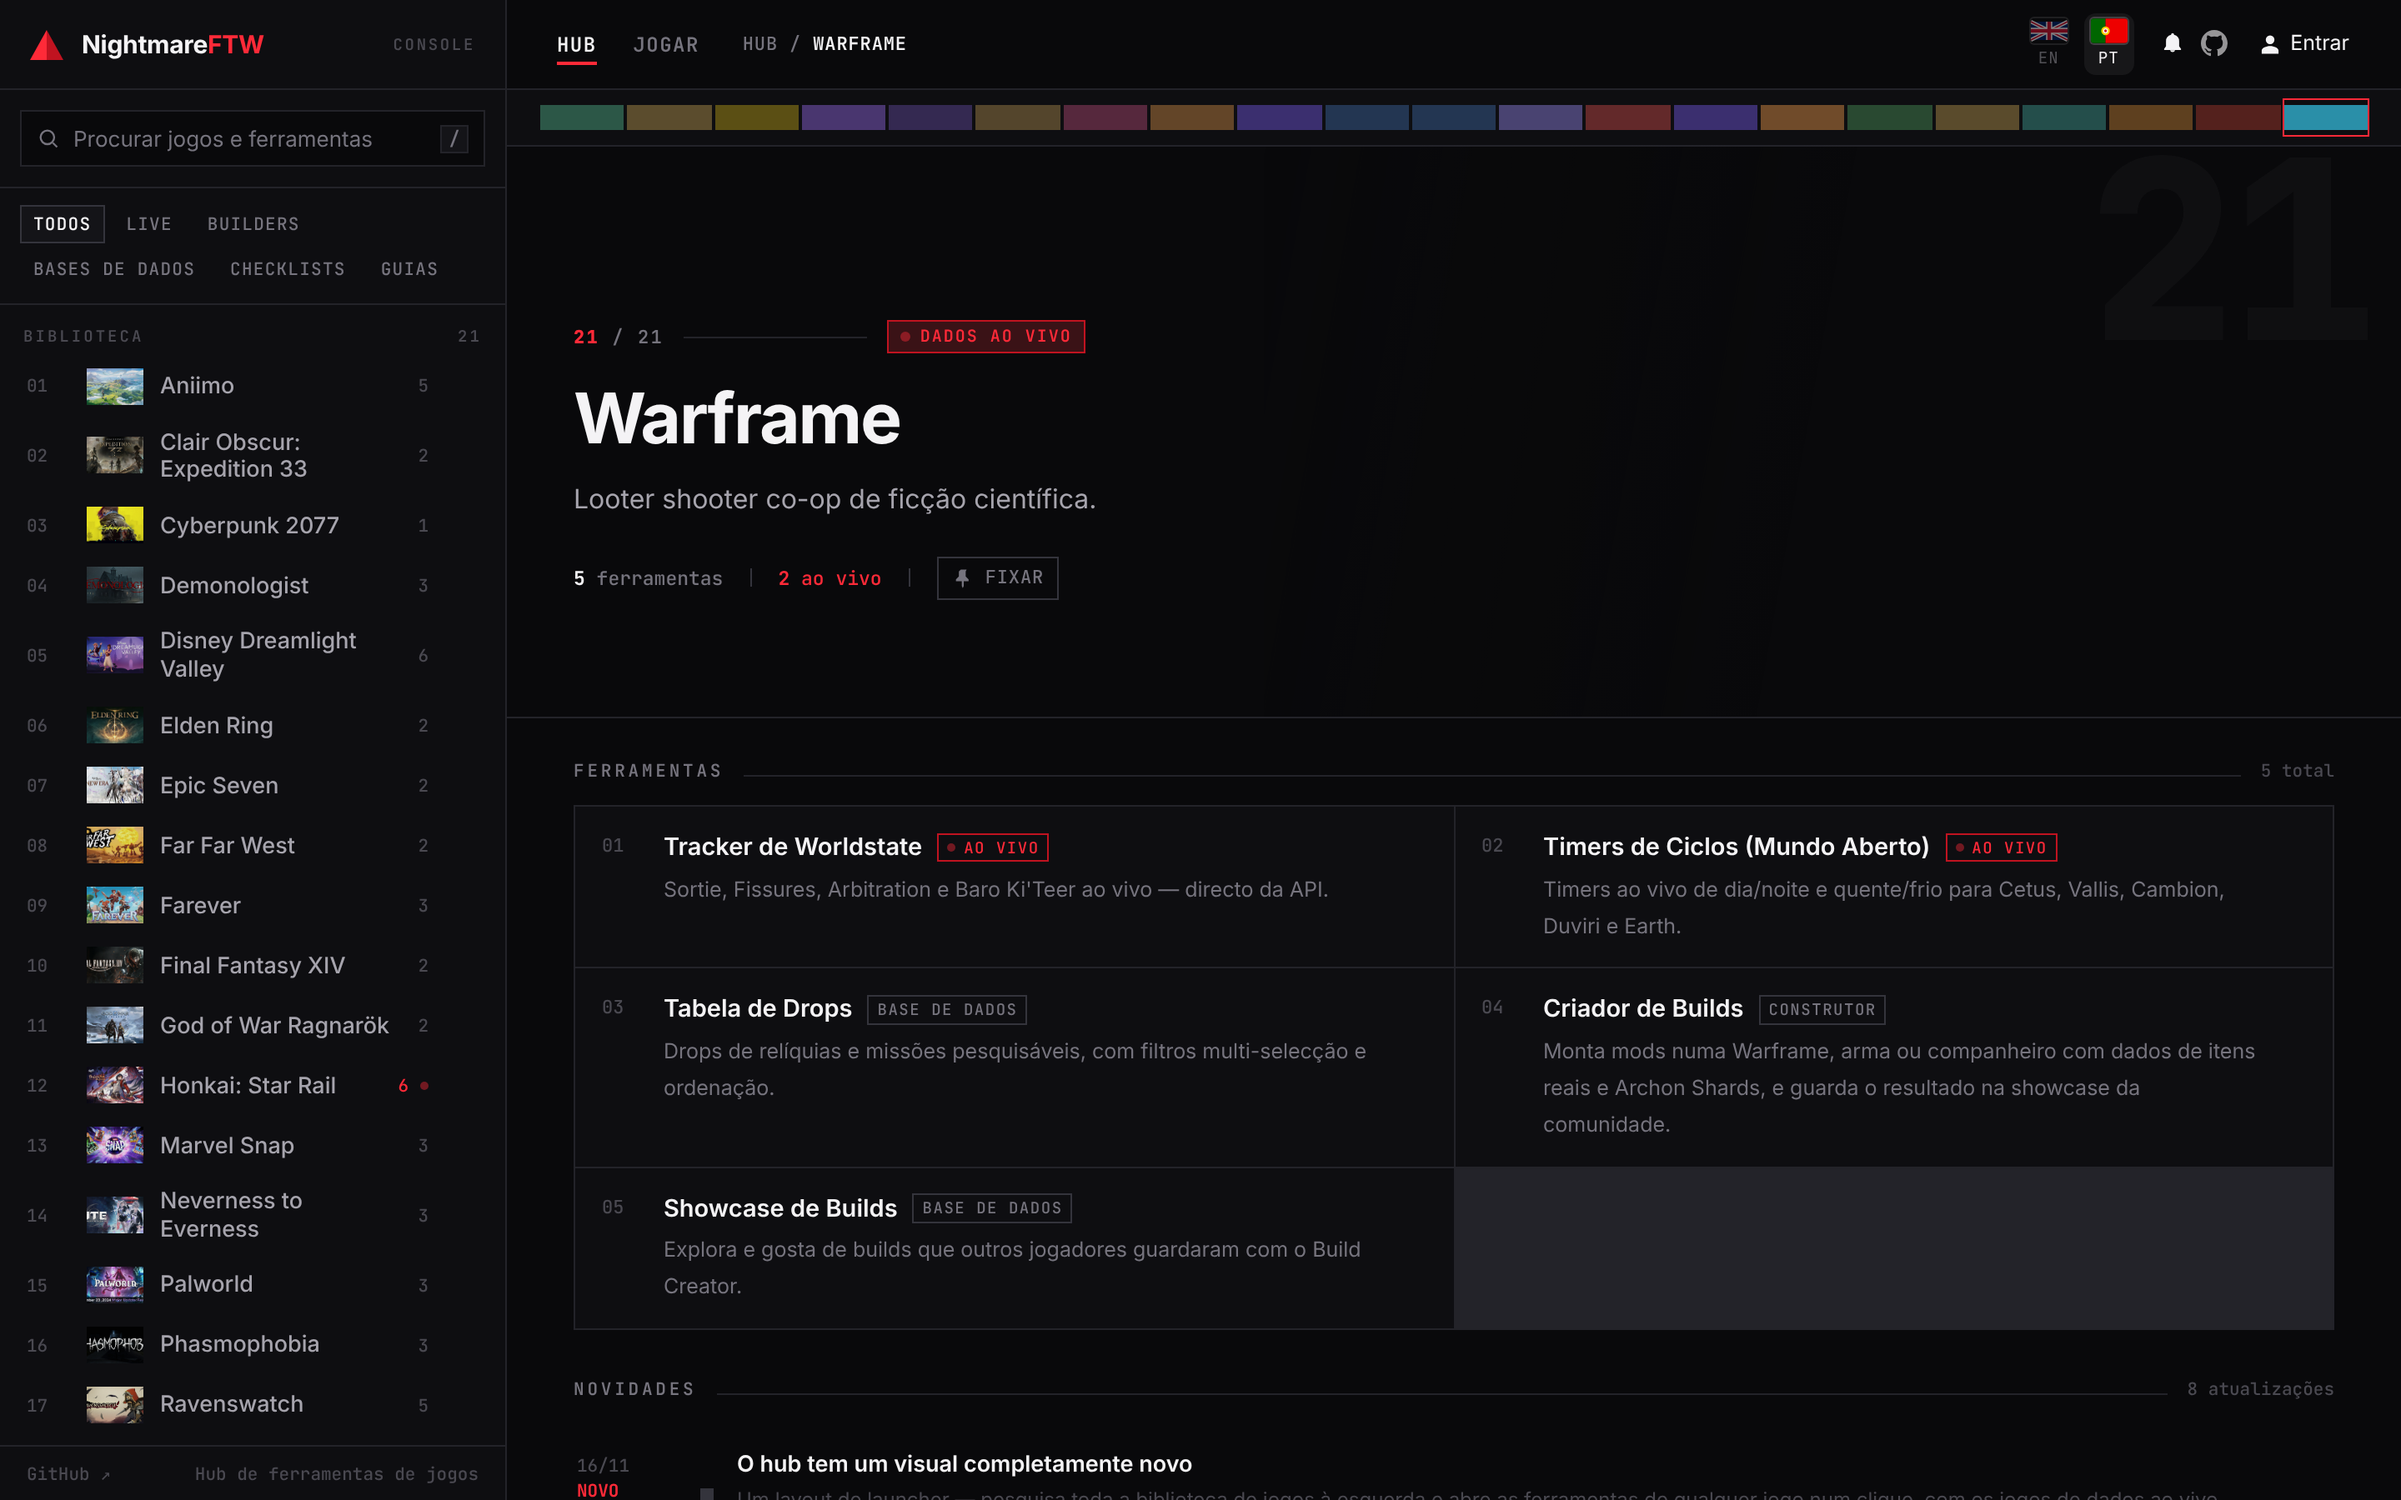
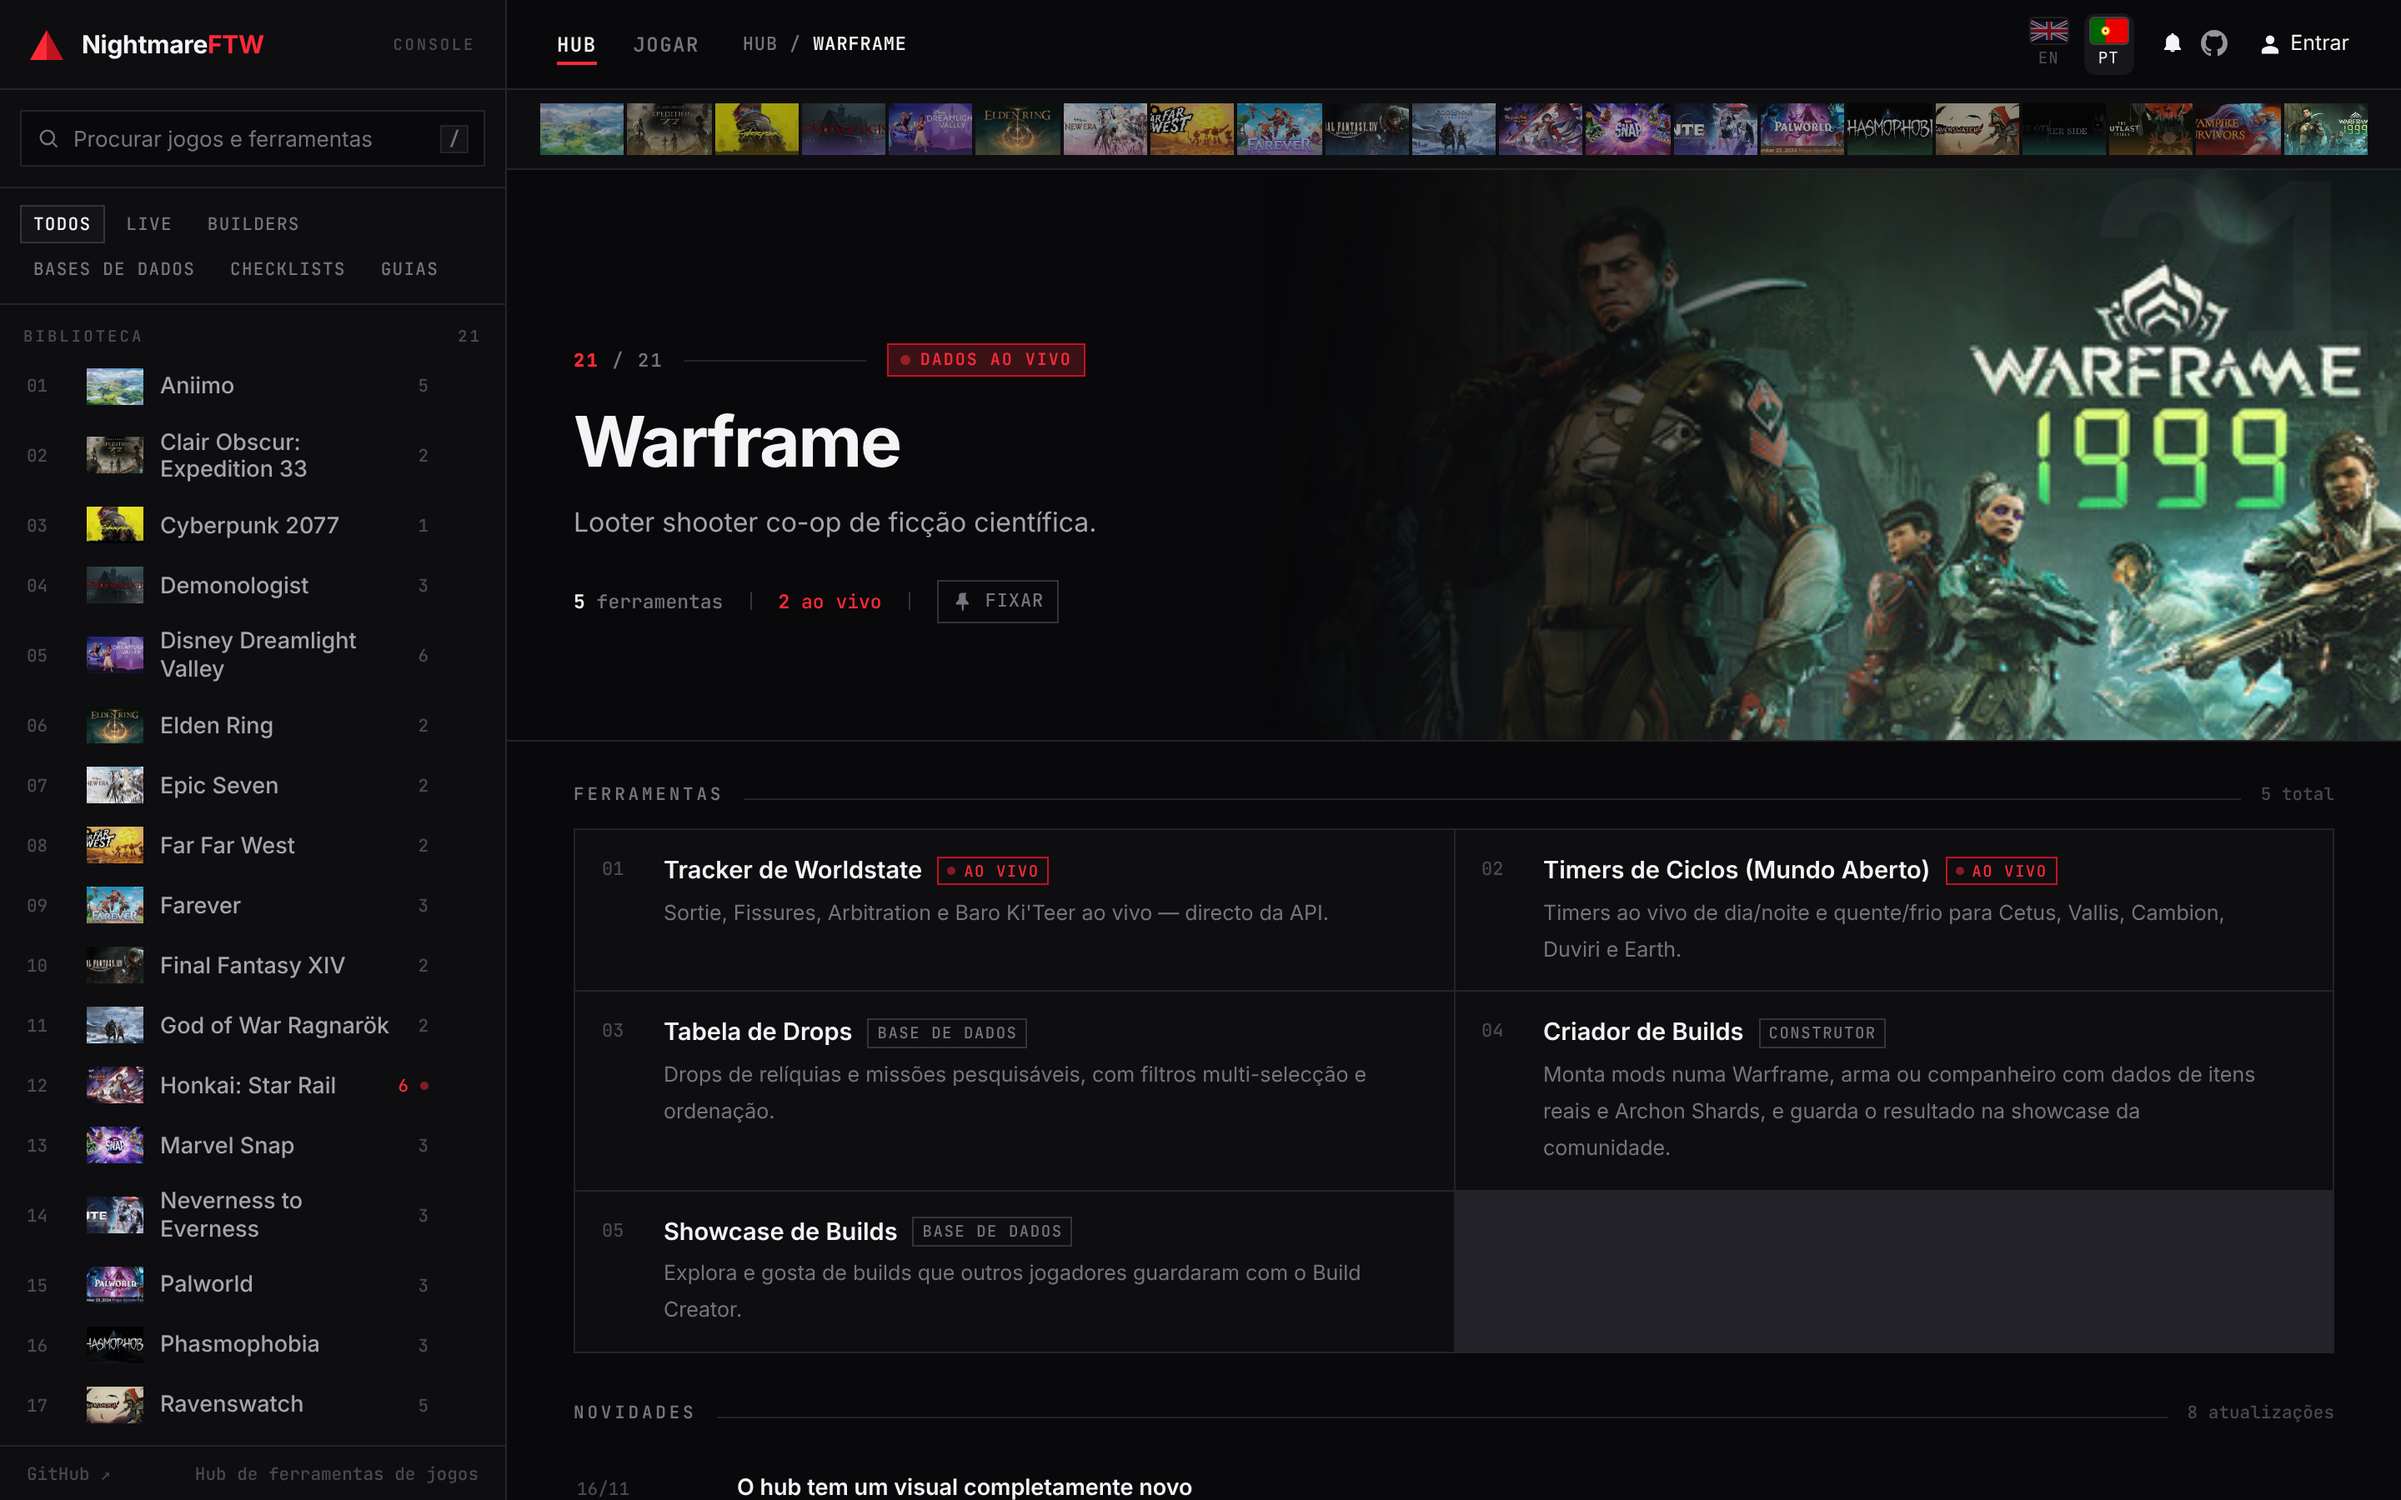
Fix hub spectrum + hero key art (broken url() quoting)
The spectrum segments and the hero backdrop set background-image from an
inline style, but the URL was wrapped in double quotes (via JSON.stringify)
inside a double-quoted style attribute, so the attribute was truncated at
url(" and no image ever loaded — the strip showed flat colour blocks and the
hero was just dark. Quote the URL with single quotes instead.

Also make the spectrum taller (48px) and a touch brighter so each game's key
art actually reads as a decal, with a subtle game-colour wash at the bottom.
Refresh the README hub screenshots.

Claude-Session: https://claude.ai/code/session_01CGZQKqSGkxkYqymybddwEb

diff --git a/assets/css/home.css b/assets/css/home.css
@@ -11,7 +11,7 @@
   --line: #232329; --line-2: #34343c;
   --c-text: #f4f3f5; --text-2: #a6a4ad; --text-3: #76747e; --text-4: #4a4951;
   --c-accent: #ff2a38; --accent-deep: #c01320; --accent-dim: #3a1216;
-  --rail: 304px; --topbar: 54px; --spec: 34px;
+  --rail: 304px; --topbar: 54px; --spec: 48px;
 }
 html, body { height: 100%; }
 body {
@@ -115,11 +115,13 @@ body::before {
 .topbar .top-nav .auth-btn { font-size: .78rem; }
 
 /* spectrum: the whole library as one strip you can jump around */
-.spectrum { flex: none; height: var(--spec); display: flex; align-items: stretch; gap: 2px; padding: 9px 20px; border-bottom: 1px solid var(--line); background: var(--panel); }
-.spectrum button { flex: 1; min-width: 0; position: relative; background-color: var(--seg, var(--line-2)); background-size: cover; background-position: center; opacity: .42; filter: saturate(.9); transition: opacity .12s, filter .12s; }
-.spectrum button:hover { opacity: .85; filter: none; }
+.spectrum { flex: none; height: var(--spec); display: flex; align-items: stretch; gap: 2px; padding: 8px 20px; border-bottom: 1px solid var(--line); background: var(--panel); }
+.spectrum button { flex: 1; min-width: 0; position: relative; overflow: hidden; background-color: var(--seg, var(--line-2)); background-size: cover; background-position: center 32%; opacity: .62; filter: saturate(.95); transition: opacity .12s, filter .12s; }
+.spectrum button:hover { opacity: .9; filter: none; }
 .spectrum button[aria-current="true"] { opacity: 1; filter: none; }
-.spectrum button::before { content: ""; position: absolute; inset: 0; background: linear-gradient(180deg, transparent 40%, color-mix(in srgb, var(--seg, #000) 55%, transparent)); }
+/* subtle game-colour wash along the bottom so the strip still reads as a spectrum */
+.spectrum button::before { content: ""; position: absolute; inset: 0; background: linear-gradient(180deg, transparent 55%, color-mix(in srgb, var(--seg, #000) 50%, transparent)); }
+@supports not (background: color-mix(in srgb, red, blue)) { .spectrum button::before { display: none; } }
 .spectrum button[aria-current="true"]::after { content: ""; position: absolute; inset: -4px -1px; border: 1px solid var(--c-accent); }
 
 .scroll { flex: 1; min-height: 0; overflow-y: auto; overscroll-behavior: contain; }

diff --git a/assets/js/home.js b/assets/js/home.js
@@ -89,7 +89,7 @@
   // ---------- spectrum ----------
   function renderSpectrum() {
     el.spectrum.innerHTML = LIST.map(function (g) {
-      return '<button data-open="' + g.id + '" title="' + esc(g.name) + '" aria-label="' + esc(g.name) + '" aria-current="' + (g.id === state.active) + '" style="--seg:' + g.color + ";background-image:url(" + JSON.stringify(g.banner) + ')"></button>';
+      return '<button data-open="' + g.id + '" title="' + esc(g.name) + '" aria-label="' + esc(g.name) + '" aria-current="' + (g.id === state.active) + '" style="--seg:' + g.color + ";background-image:url('" + g.banner + "')\"></button>";
     }).join("");
   }
 
@@ -98,7 +98,7 @@
     var i = idxOf(g.id), lc = liveCount(g), on = onCount(g), page = gamePage(g), pinned = isPinned(g.id);
     var name = page ? '<a href="' + esc(page) + '">' + esc(g.name) + "</a>" : esc(g.name);
     return "" +
-      (g.banner ? '<div class="hero-art" style="background-image:url(' + JSON.stringify(g.banner) + ')"></div>' : "") +
+      (g.banner ? '<div class="hero-art" style="background-image:url(\'' + g.banner + '\')"></div>' : "") +
       '<div class="hero-wm num" aria-hidden="true">' + String(i + 1).padStart(2, "0") + "</div>" +
       '<div class="hero-in">' +
         '<div class="eyebrow"><span class="idx num"><b>' + String(i + 1).padStart(2, "0") + "</b> / " + String(LIST.length).padStart(2, "0") + "</span><span class=\"rule\"></span>" +

diff --git a/index.html b/index.html
@@ -11,7 +11,7 @@
   <link href="https://fonts.googleapis.com/css2?family=Inter:wght@400;500;600;700&family=JetBrains+Mono:wght@400;500;600;700;800&display=swap" rel="stylesheet">
   <link rel="icon" type="image/svg+xml" href="/favicon.svg">
   <link rel="stylesheet" href="assets/css/style.css?v=02e50fb5">
-  <link rel="stylesheet" href="assets/css/home.css?v=5fc4ce5e">
+  <link rel="stylesheet" href="assets/css/home.css?v=6117d36c">
 </head>
 <body>
   <div class="app">
@@ -84,7 +84,7 @@
   </div>
 
   <script src="assets/js/data.js?v=9af3447b"></script>
-  <script src="assets/js/home.js?v=3670534d"></script>
+  <script src="assets/js/home.js?v=daf534bf"></script>
   <script src="/assets/js/i18n.js?v=bb6066e4" defer></script>
   <!-- Cloudflare Web Analytics --><script type='module' src='https://static.cloudflareinsights.com/beacon.min.js' data-cf-beacon='{"token": "b0fc25d6ec3948f58b0a240fab9e9500"}'></script><!-- End Cloudflare Web Analytics -->
 </body>
